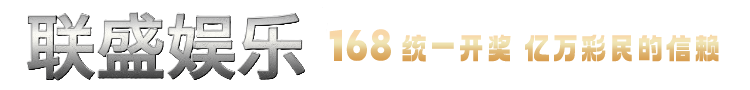
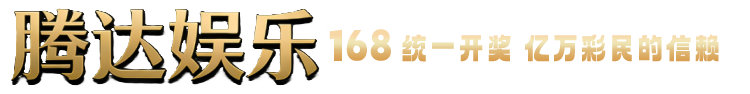
Add files via upload

diff --git a/index.html b/index.html
@@ -8,7 +8,7 @@
     <link rel="stylesheet" href="./skin/style_icon.css">
     <link rel="stylesheet" href="./skin/index.css">
     <script src="./skin/nutui.umd.4.3.8.js"></script>
-    <title>联盛娱乐</title>
+    <title>腾达娱乐</title>
     <meta name="keywords" content="">
     <meta name="description" content="">
     <link rel="icon" href="./skin/0544aa35b27947c89122b31183d19d04.png" type="image/png">
@@ -71,7 +71,7 @@
     <div id="app" class="page" data-v-app="">
         <div class="page-cont">
 
-            <img src="./images/img4.gif" class="responsive-img">
+            <img src="./images/img6.png" class="responsive-img">
             <img src="./skin/lb.png" class="responsive-img" >
 
             <div class="cont-box" style="margin-top: -18px;">
@@ -81,7 +81,7 @@
                     <div class="msg-bar">
                         <div class="marquee-container">
                             <div class="marquee">
-                                欢迎来到联盛娱乐！上下分联系BV房间在线客服，私下转账造成资金损失一率与本群无关，营业时间:早上9点开盘至凌晨4点结束，祝老板们天天盈利！
+                                欢迎来到腾达娱乐！上下分联系BV房间在线客服，私下转账造成资金损失一率与本群无关，营业时间:早上9点开盘至凌晨4点结束，祝老板们天天盈利！
                             </div>
                         </div>
                     </div>
@@ -106,7 +106,7 @@
                                         </div>
                                         <div class="link">
                                         <div class="name">
-                                            房间:555858
+                                            房间:772828
                                         </div>
                                             <a href="javascript:;">
                           
